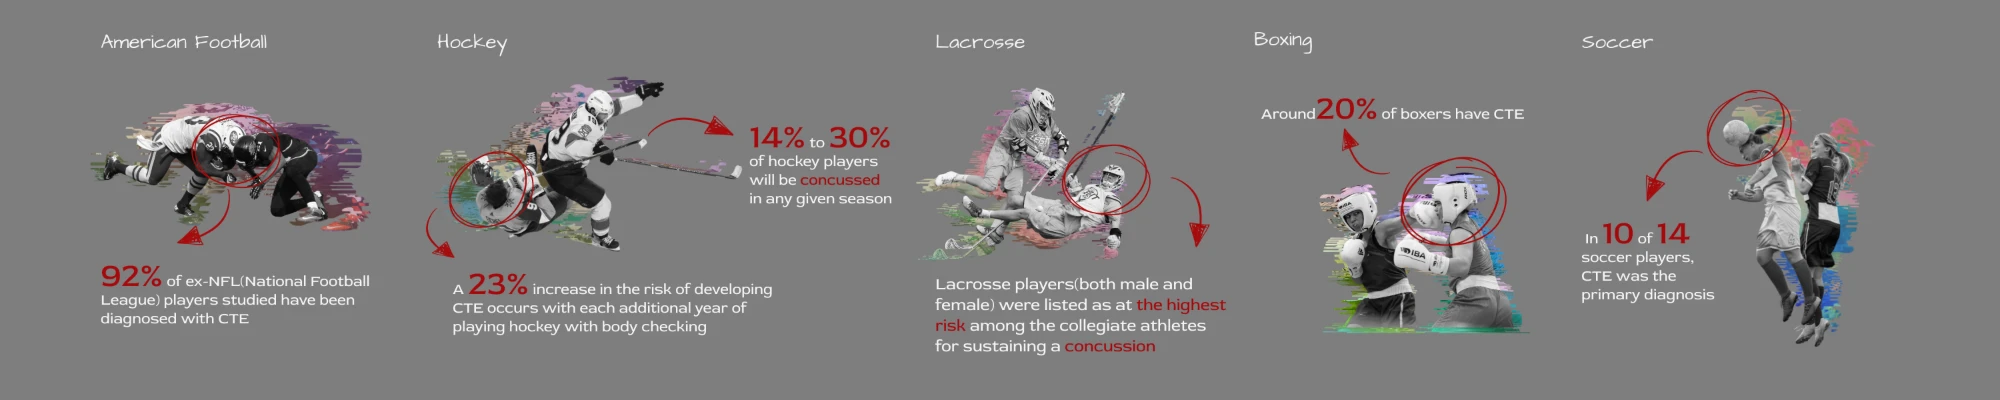
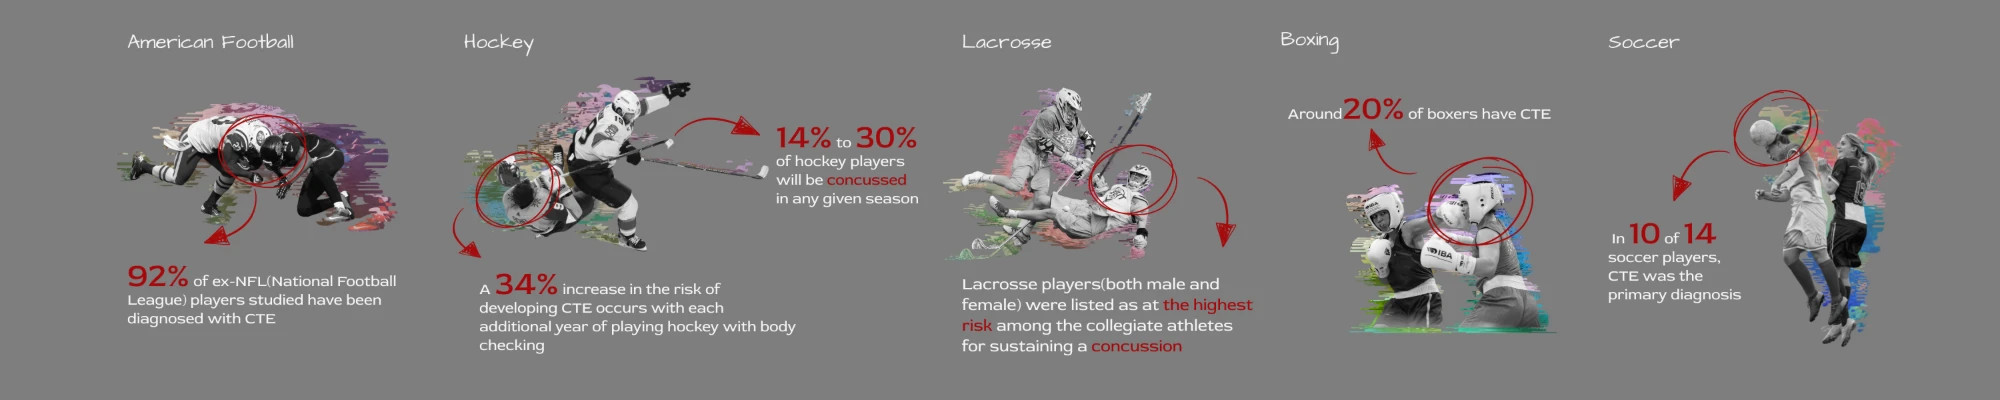
CTE: updated sports strip (34%); smaller source list text
Claude-Session: https://claude.ai/code/session_016JipU5KkSJDLw1FRNbE3mb

diff --git a/src/styles/tokens.css b/src/styles/tokens.css
@@ -26,6 +26,7 @@
 
   /* ── Text sizes ─────────────────────────────────────────── */
   /* The larger sizes grow smoothly from phone to laptop screens. */
+  --text-2xs: 0.75rem;                                /* 12px: source lists */
   --text-xs: 0.8125rem;                               /* 13px: tags, small labels */
   --text-sm: 0.9375rem;                               /* 15px: menu, captions */
   --text-base: 1.0625rem;                             /* 17px: body text */

diff --git a/content/case-studies/cte-every-hit-matters.md b/content/case-studies/cte-every-hit-matters.md
@@ -26,7 +26,7 @@ sections:
     blocks:
       - text: "CTE is a brain condition linked to repeated head impacts, yet public awareness remains limited, even in youth contact sports."
       - image: "research-sports.png"
-        alt: "CTE and concussion figures for five contact sports. American football: 92% of ex-NFL players studied have been diagnosed with CTE. Hockey: 14% to 30% of players will be concussed in any given season, and a 23% increase in the risk of developing CTE occurs with each additional year of playing with body checking. Lacrosse: male and female players were listed at the highest risk among collegiate athletes for sustaining a concussion. Boxing: around 20% of boxers have CTE. Soccer: in 10 of 14 soccer players, CTE was the primary diagnosis."
+        alt: "CTE and concussion figures for five contact sports. American football: 92% of ex-NFL players studied have been diagnosed with CTE. Hockey: 14% to 30% of players will be concussed in any given season, and a 34% increase in the risk of developing CTE occurs with each additional year of playing with body checking. Lacrosse: male and female players were listed at the highest risk among collegiate athletes for sustaining a concussion. Boxing: around 20% of boxers have CTE. Soccer: in 10 of 14 soccer players, CTE was the primary diagnosis."
         sources:
           - "Boston University CTE Center. (2023, February 6). Researchers find CTE in 345 of 376 former NFL players studied."
           - "Andrews, E., et al. (2022). Concussions in the National Hockey League: Analysis of incidence, return to play, and performance. Orthopaedic Journal of Sports Medicine, 10(1). https://doi.org/10.1177/23259671211052069"
